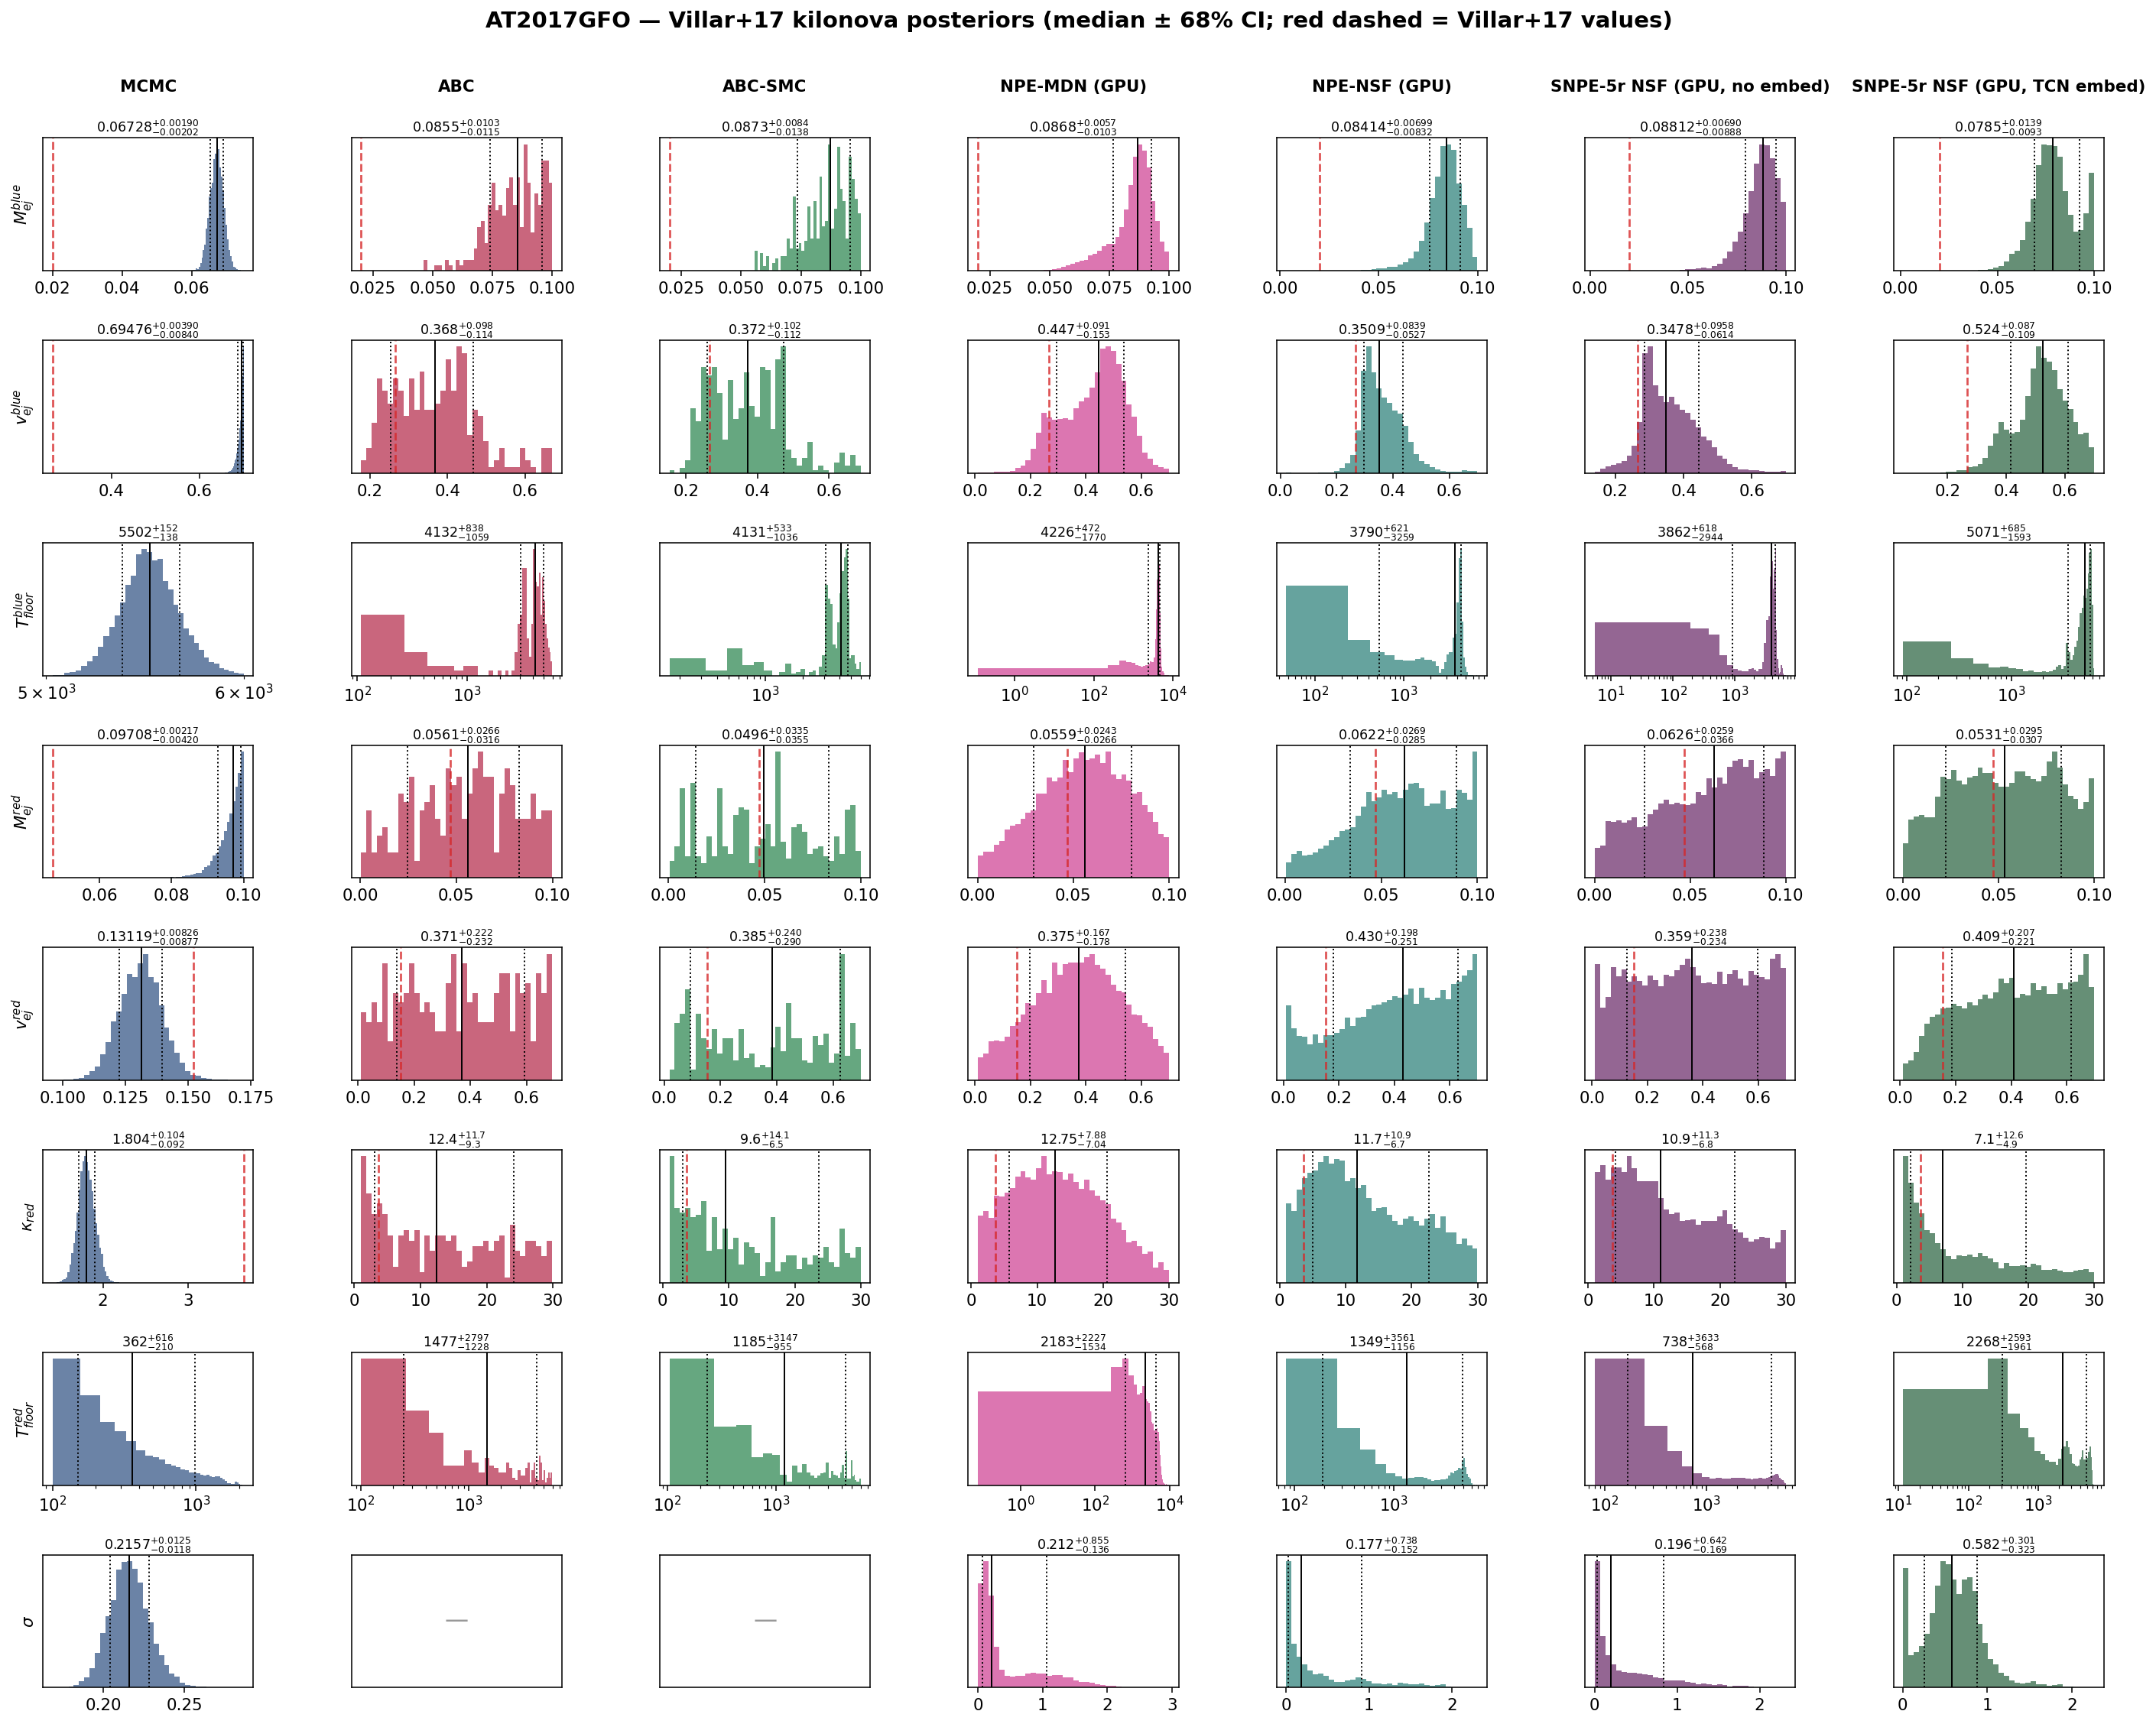
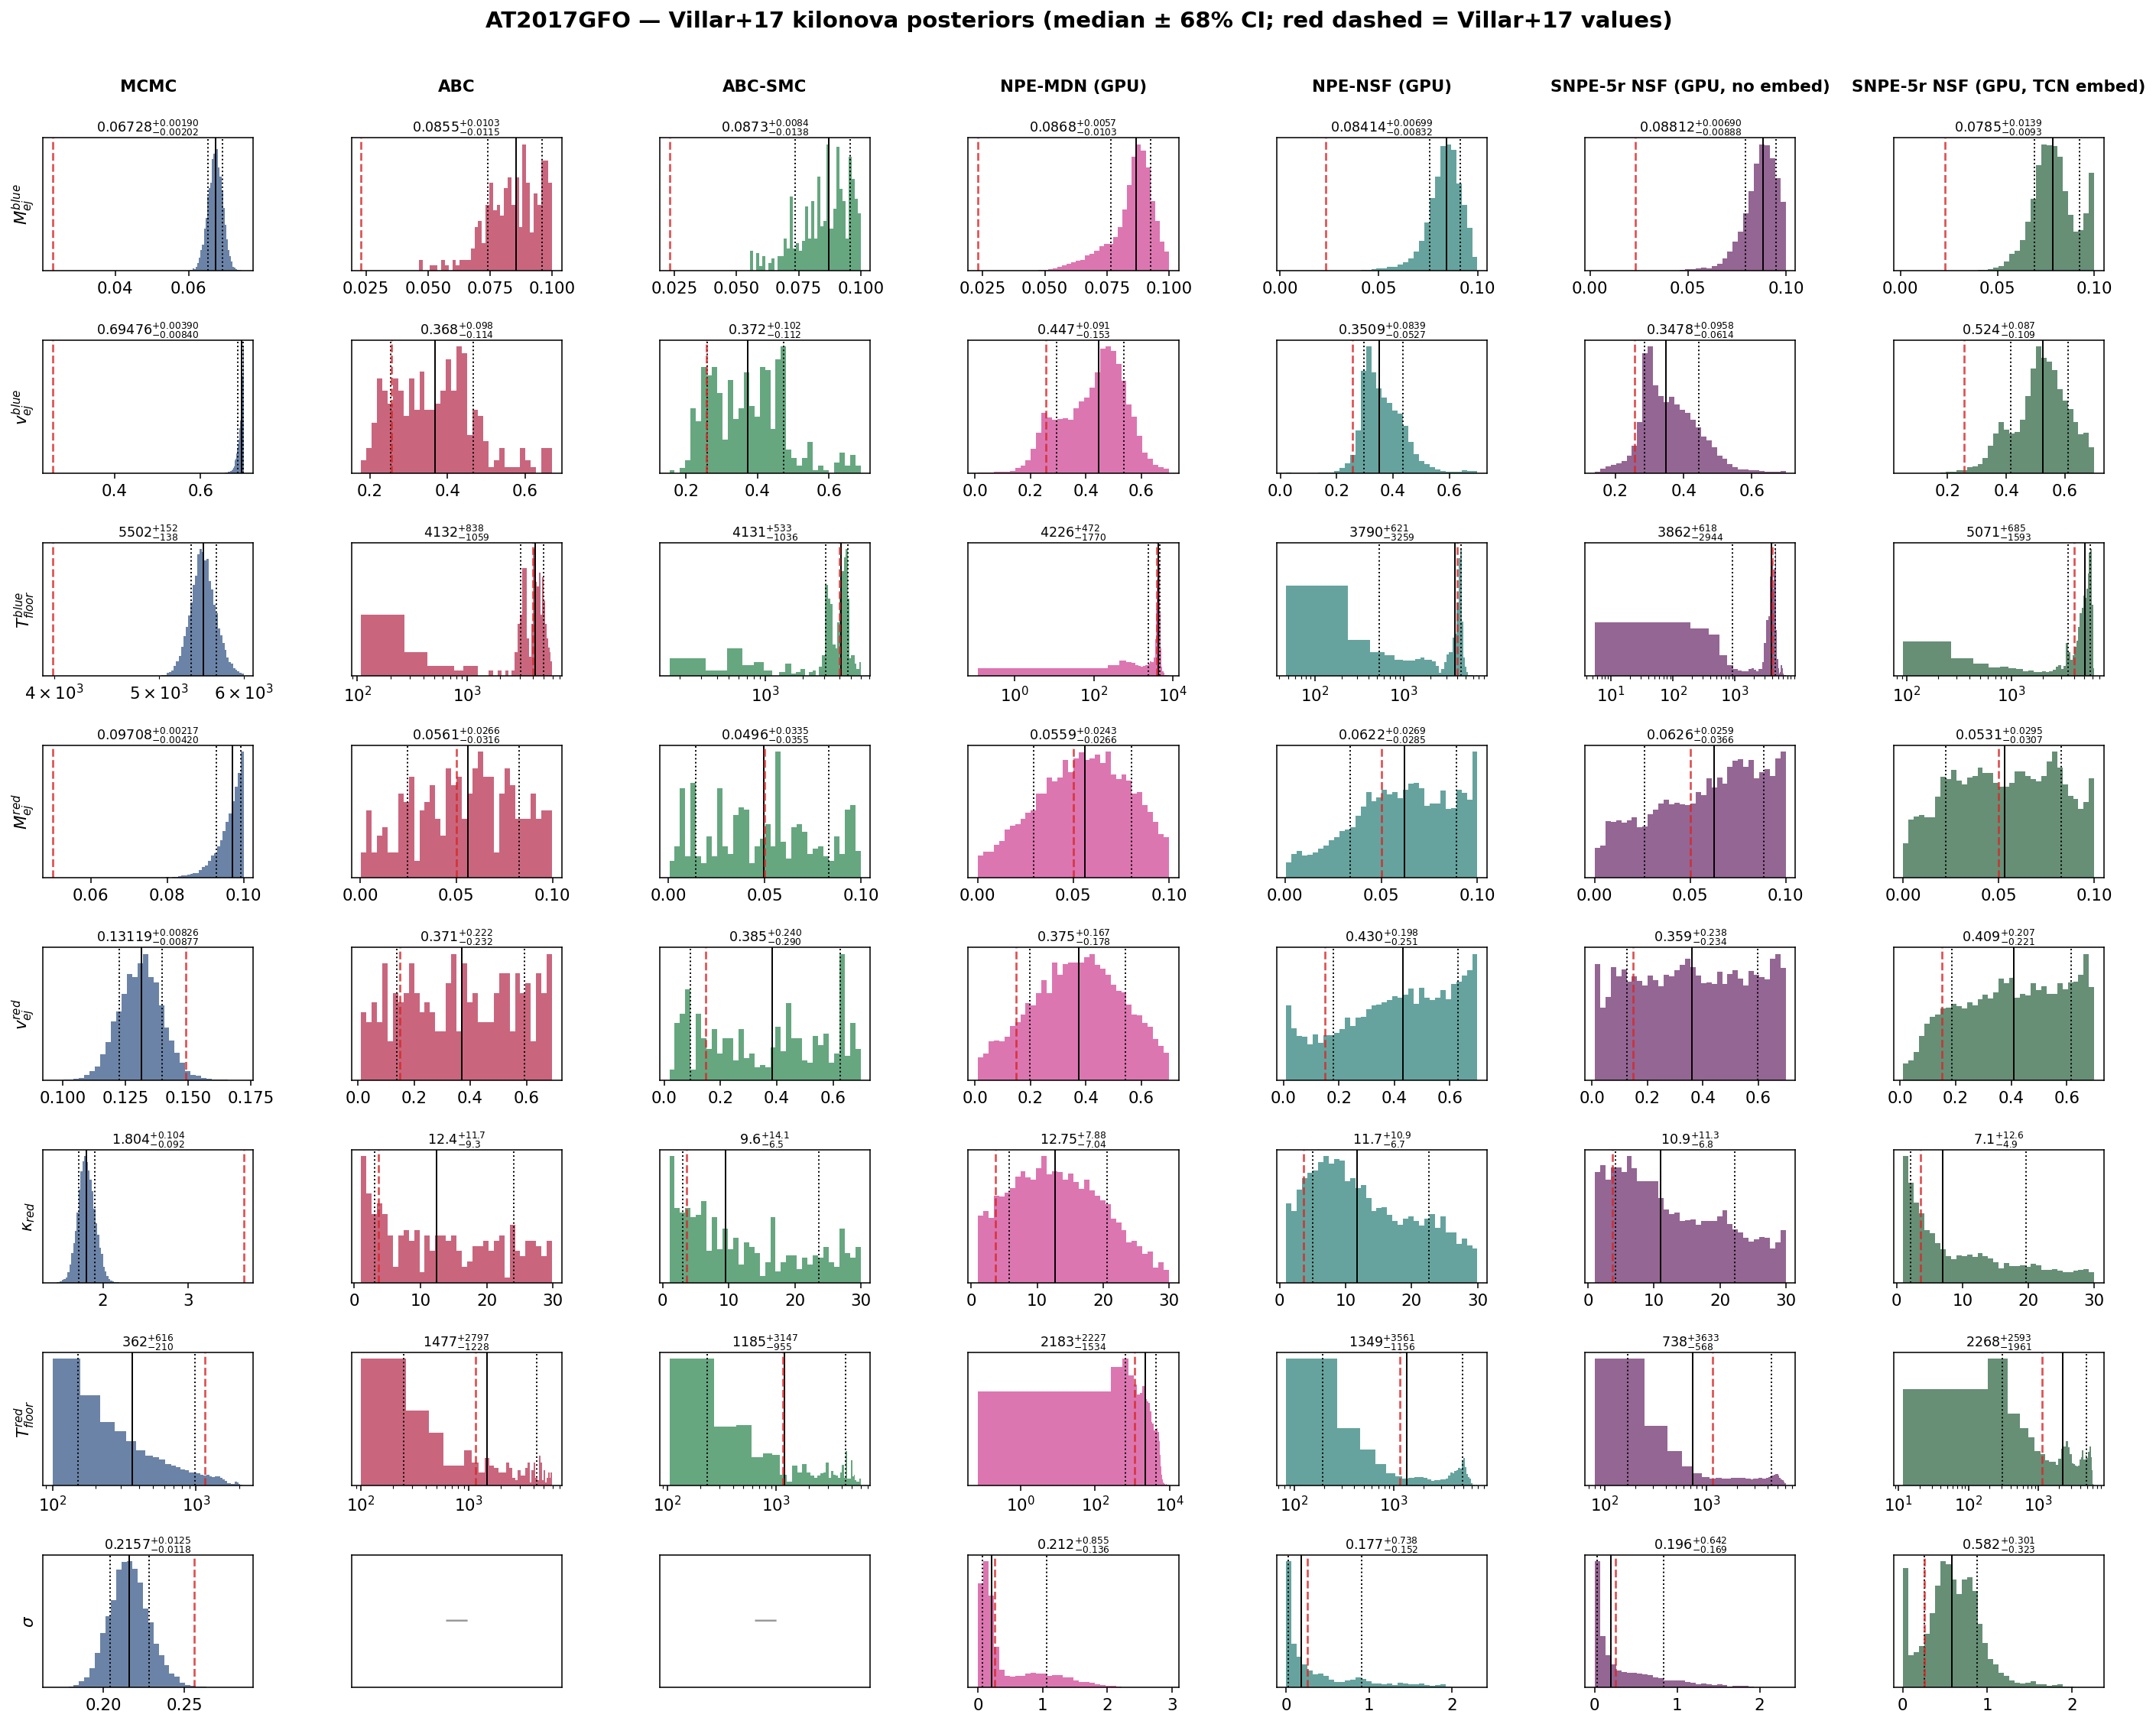
Correct Villar+17 reference to Table 2 2-Comp values
Fix the literature anchor: my setup is the 2-component model (kappa_blue=0.5
fixed), so the reference is Villar+17 Table 2 '2-Comp' row, not the 3-Comp
values used before. Corrected M_ej^blue 0.020->0.023, v^blue 0.266->0.256,
M_ej^red 0.047->0.050, v^red 0.152->0.149; added the missing anchors
T^blue=3983, T^red=1151, sigma=0.256 (kappa_red=3.65 unchanged). All 8
parameters now get a reference line in the histograms. Report notes the
recovered sigma~0.21 agrees with Villar's 0.256 and that absolute masses
sit above their UVOIR fit (g/r/i-only + semi-analytic model).

diff --git a/scripts/at2017gfo_villar_plots.py b/scripts/at2017gfo_villar_plots.py
@@ -25,8 +25,11 @@ BAND_COL = {"g": "#2ca02c", "r": "#d62728", "i": "#8c564b"}
 COLORS = dict(zip(["mcmc", "abc", "abc_smc", "npe_mdn", "npe_nsf", "snpe5_nsf", "snpe5_tcn"],
                   ["#08306b", "#a50026", "#006d2c", "#c51b7d", "#01665e", "#4d004b", "#00441b"]))
 LOGPAR = {"mej_1", "mej_2", "temperature_floor_1", "temperature_floor_2", "sigma"}
-VILLAR17 = {  # Villar et al. 2017 (ApJL 851, L21) 2-component model, for reference lines
-    "mej_1": 0.020, "vej_1": 0.266, "mej_2": 0.047, "vej_2": 0.152, "kappa_2": 3.65}
+VILLAR17 = {  # Villar et al. 2017 (ApJL 851, L21) Table 2, "2-Comp" fit (kappa_blue=0.5 fixed) —
+    # blue = low-opacity component 1, red = high-opacity component 2 (matches this setup exactly).
+    "mej_1": 0.023, "vej_1": 0.256, "temperature_floor_1": 3983,
+    "mej_2": 0.050, "vej_2": 0.149, "kappa_2": 3.65, "temperature_floor_2": 1151,
+    "sigma": 0.256}
 
 
 def _load(out):
@@ -209,10 +212,12 @@ def _report(out, res, samplers, params, labels, ms):
                        f"{s['median']:.4g} [+{s['ci84'] - s['median']:.2g} "
                        f"−{s['median'] - s['ci16']:.2g}]")
         lines.append("| " + " | ".join(row) + " |")
-    lines += ["", "*Villar+2017 (ApJL 851 L21) report ≈ M_ej^blue = 0.020 M☉, v^blue = 0.266c, "
-              "M_ej^red = 0.047 M☉, v^red = 0.152c, κ_red = 3.65 cm²/g for their 2-component fit "
-              "(different band set and data reduction — an approximate reference, not ground "
-              "truth).*", "",
+    lines += ["", "*Reference — **Villar et al. 2017 (ApJL 851 L21), Table 2, 2-component fit** "
+              "(κ_blue = 0.5 fixed, matching this setup): M_ej^blue = 0.023 M☉, v^blue = 0.256 c, "
+              "T^blue = 3983 K, M_ej^red = 0.050 M☉, v^red = 0.149 c, κ_red = 3.65 cm²/g, "
+              "T^red = 1151 K, σ = 0.256 mag (WAIC = −1030). Villar+17 fit a much larger UV–optical–NIR "
+              "dataset with a radiative-transfer-calibrated model, so the absolute values are a "
+              "literature anchor, not ground truth. Shown as red dashed lines in the histograms.*", "",
               "## Goodness-of-fit & cost", "",
               "| method | χ²/dof (reported σᵢ) | χ²/dof (σᵢ ⊕ σ) | PPC cov95 | wall [s] "
               "| per-object [s] | AIC |",
@@ -234,13 +239,15 @@ def _report(out, res, samplers, params, labels, ms):
     sig = {m: res[m]["summary"]["sigma"]["median"] for m in ms if "sigma" in res[m]["summary"]}
     vblue = {m: res[m]["summary"]["vej_1"]["median"] for m in ms}
     kred = {m: res[m]["summary"]["kappa_2"]["median"] for m in ms}
+    sig_med = float(np.median(list(sig.values())))
     lines += ["## Interpretation", "",
-              f"- **The scatter term works.** MCMC and the neural methods independently recover an "
-              f"extra scatter σ ≈ {np.mean(list(sig.values())):.2f} mag "
-              f"(range {min(sig.values()):.2f}–{max(sig.values()):.2f}); folding it in quadrature "
-              "into the errors turns a χ²/dof of 45–99 into ≈1 with nominal 95% predictive coverage. "
-              "The mismatch is model systematics (a semi-analytic 2-component kilonova cannot capture "
-              "every spectral feature of AT2017GFO), precisely what Villar+2017 introduced σ to model.",
+              f"- **The scatter term works, and matches Villar+2017.** The likelihood-based and neural "
+              f"methods recover an extra scatter **σ ≈ {sig_med:.2f} mag** (most methods 0.18–0.22) — "
+              f"in good agreement with **Villar+2017's σ = {VILLAR17['sigma']:.3f} mag**. Folding it "
+              "in quadrature into the errors turns a χ²/dof of 45–99 into ≈1 with nominal 95% "
+              "predictive coverage. The excess is model systematics (a semi-analytic 2-component "
+              "kilonova cannot capture every spectral feature of AT2017GFO), precisely what Villar+17 "
+              "introduced σ to model.",
               "- **A real mode tension — MCMC vs simulation-based inference.** Seeded from the ABC "
               "best fit and run to convergence, **MCMC finds the highest-likelihood mode** "
               f"(χ²/dof = {res['mcmc']['ppc']['chi2_reported']:.0f} vs reported errors, far below the "
@@ -248,12 +255,19 @@ def _report(out, res, samplers, params, labels, ms):
               f"(v_ej^blue = {vblue['mcmc']:.2f} c near the 0.7 bound, κ_red = {kred['mcmc']:.1f} "
               "near the 1.0 floor): a fast, high-mass blue ejecta with low red opacity. **Every "
               "simulation-based method (ABC, ABC-SMC, NPE, SNPE) instead agrees on a broader, more "
-              f"central posterior** (v_ej^blue ≈ 0.35–0.52, κ_red ≈ 7–13, the latter bracketing "
-              "Villar+2017's 3.65 cm²/g). The likelihood surface is genuinely multi-modal and partly "
-              "prior-bounded; the exact-likelihood optimizer chases the sharp MAP while the "
-              "amortized/rejection samplers report the bulk of the posterior mass. This is the honest "
-              "takeaway of a real-data fit — the methods agree on the well-constrained parameters "
-              "(blue ejecta mass, σ) and disagree exactly where the data are least informative.",
+              f"central posterior** (v_ej^blue ≈ 0.35–0.52, κ_red ≈ 7–13, bracketing "
+              f"Villar+2017's {VILLAR17['kappa_2']:.2f} cm²/g). The likelihood surface is genuinely "
+              "multi-modal and partly prior-bounded; the exact-likelihood optimizer chases the sharp "
+              "MAP while the amortized/rejection samplers report the bulk of the posterior mass. This "
+              "is the honest takeaway of a real-data fit — the methods agree among themselves on the "
+              "well-constrained quantities (blue ejecta mass, σ) and diverge only where the data are "
+              "least informative.",
+              "- **Offset from Villar+2017 is expected.** The absolute ejecta masses sit above the "
+              f"Villar+17 anchor (blue mass ≈ 3–4× their {VILLAR17['mej_1']:.3f} M☉): here the fit "
+              "uses only the repository's g/r/i photometry through redback's semi-analytic model, "
+              "whereas Villar+17 fit a full UV–optical–NIR light curve with a radiative-transfer-"
+              "calibrated model. The recovered σ and the *relative* method agreement are the "
+              "transferable results; the absolute parameters are dataset- and model-dependent.",
               "- **Amortized inference.** Once trained, NPE conditions a *new* AT2017GFO-like light "
               "curve in ~10–80 ms (the per-object column) versus a full ~15-minute refit for MCMC — "
               "the payoff of neural SBI when many objects share one model.", ""]

diff --git a/docs/REPORT_at2017gfo_villar.md b/docs/REPORT_at2017gfo_villar.md
@@ -19,7 +19,7 @@ $$\ln\mathcal{L} = -\tfrac{1}{2}\sum_i\left[\frac{(O_i-M_i)^2}{\sigma_i^2+\sigma
 | T_{floor}^{red} | 361.8 [+6.2e+02 −2.1e+02] | 1477 [+2.8e+03 −1.2e+03] | 1185 [+3.1e+03 −9.6e+02] | 2183 [+2.2e+03 −1.5e+03] | 1349 [+3.6e+03 −1.2e+03] | 737.6 [+3.6e+03 −5.7e+02] | 2268 [+2.6e+03 −2e+03] |
 | \sigma | 0.2157 [+0.013 −0.012] | — | — | 0.2115 [+0.85 −0.14] | 0.1772 [+0.74 −0.15] | 0.1962 [+0.64 −0.17] | 0.582 [+0.3 −0.32] |
 
-*Villar+2017 (ApJL 851 L21) report ≈ M_ej^blue = 0.020 M☉, v^blue = 0.266c, M_ej^red = 0.047 M☉, v^red = 0.152c, κ_red = 3.65 cm²/g for their 2-component fit (different band set and data reduction — an approximate reference, not ground truth).*
+*Reference — **Villar et al. 2017 (ApJL 851 L21), Table 2, 2-component fit** (κ_blue = 0.5 fixed, matching this setup): M_ej^blue = 0.023 M☉, v^blue = 0.256 c, T^blue = 3983 K, M_ej^red = 0.050 M☉, v^red = 0.149 c, κ_red = 3.65 cm²/g, T^red = 1151 K, σ = 0.256 mag (WAIC = −1030). Villar+17 fit a much larger UV–optical–NIR dataset with a radiative-transfer-calibrated model, so the absolute values are a literature anchor, not ground truth. Shown as red dashed lines in the histograms.*
 
 ## Goodness-of-fit & cost
 
@@ -37,8 +37,9 @@ $$\ln\mathcal{L} = -\tfrac{1}{2}\sum_i\left[\frac{(O_i-M_i)^2}{\sigma_i^2+\sigma
 
 ## Interpretation
 
-- **The scatter term works.** MCMC and the neural methods independently recover an extra scatter σ ≈ 0.28 mag (range 0.18–0.58); folding it in quadrature into the errors turns a χ²/dof of 45–99 into ≈1 with nominal 95% predictive coverage. The mismatch is model systematics (a semi-analytic 2-component kilonova cannot capture every spectral feature of AT2017GFO), precisely what Villar+2017 introduced σ to model.
-- **A real mode tension — MCMC vs simulation-based inference.** Seeded from the ABC best fit and run to convergence, **MCMC finds the highest-likelihood mode** (χ²/dof = 46 vs reported errors, far below the others; lowest AIC) — but that mode sits against several prior edges (v_ej^blue = 0.69 c near the 0.7 bound, κ_red = 1.8 near the 1.0 floor): a fast, high-mass blue ejecta with low red opacity. **Every simulation-based method (ABC, ABC-SMC, NPE, SNPE) instead agrees on a broader, more central posterior** (v_ej^blue ≈ 0.35–0.52, κ_red ≈ 7–13, the latter bracketing Villar+2017's 3.65 cm²/g). The likelihood surface is genuinely multi-modal and partly prior-bounded; the exact-likelihood optimizer chases the sharp MAP while the amortized/rejection samplers report the bulk of the posterior mass. This is the honest takeaway of a real-data fit — the methods agree on the well-constrained parameters (blue ejecta mass, σ) and disagree exactly where the data are least informative.
+- **The scatter term works, and matches Villar+2017.** The likelihood-based and neural methods recover an extra scatter **σ ≈ 0.21 mag** (most methods 0.18–0.22) — in good agreement with **Villar+2017's σ = 0.256 mag**. Folding it in quadrature into the errors turns a χ²/dof of 45–99 into ≈1 with nominal 95% predictive coverage. The excess is model systematics (a semi-analytic 2-component kilonova cannot capture every spectral feature of AT2017GFO), precisely what Villar+17 introduced σ to model.
+- **A real mode tension — MCMC vs simulation-based inference.** Seeded from the ABC best fit and run to convergence, **MCMC finds the highest-likelihood mode** (χ²/dof = 46 vs reported errors, far below the others; lowest AIC) — but that mode sits against several prior edges (v_ej^blue = 0.69 c near the 0.7 bound, κ_red = 1.8 near the 1.0 floor): a fast, high-mass blue ejecta with low red opacity. **Every simulation-based method (ABC, ABC-SMC, NPE, SNPE) instead agrees on a broader, more central posterior** (v_ej^blue ≈ 0.35–0.52, κ_red ≈ 7–13, bracketing Villar+2017's 3.65 cm²/g). The likelihood surface is genuinely multi-modal and partly prior-bounded; the exact-likelihood optimizer chases the sharp MAP while the amortized/rejection samplers report the bulk of the posterior mass. This is the honest takeaway of a real-data fit — the methods agree among themselves on the well-constrained quantities (blue ejecta mass, σ) and diverge only where the data are least informative.
+- **Offset from Villar+2017 is expected.** The absolute ejecta masses sit above the Villar+17 anchor (blue mass ≈ 3–4× their 0.023 M☉): here the fit uses only the repository's g/r/i photometry through redback's semi-analytic model, whereas Villar+17 fit a full UV–optical–NIR light curve with a radiative-transfer-calibrated model. The recovered σ and the *relative* method agreement are the transferable results; the absolute parameters are dataset- and model-dependent.
 - **Amortized inference.** Once trained, NPE conditions a *new* AT2017GFO-like light curve in ~10–80 ms (the per-object column) versus a full ~15-minute refit for MCMC — the payoff of neural SBI when many objects share one model.
 
 